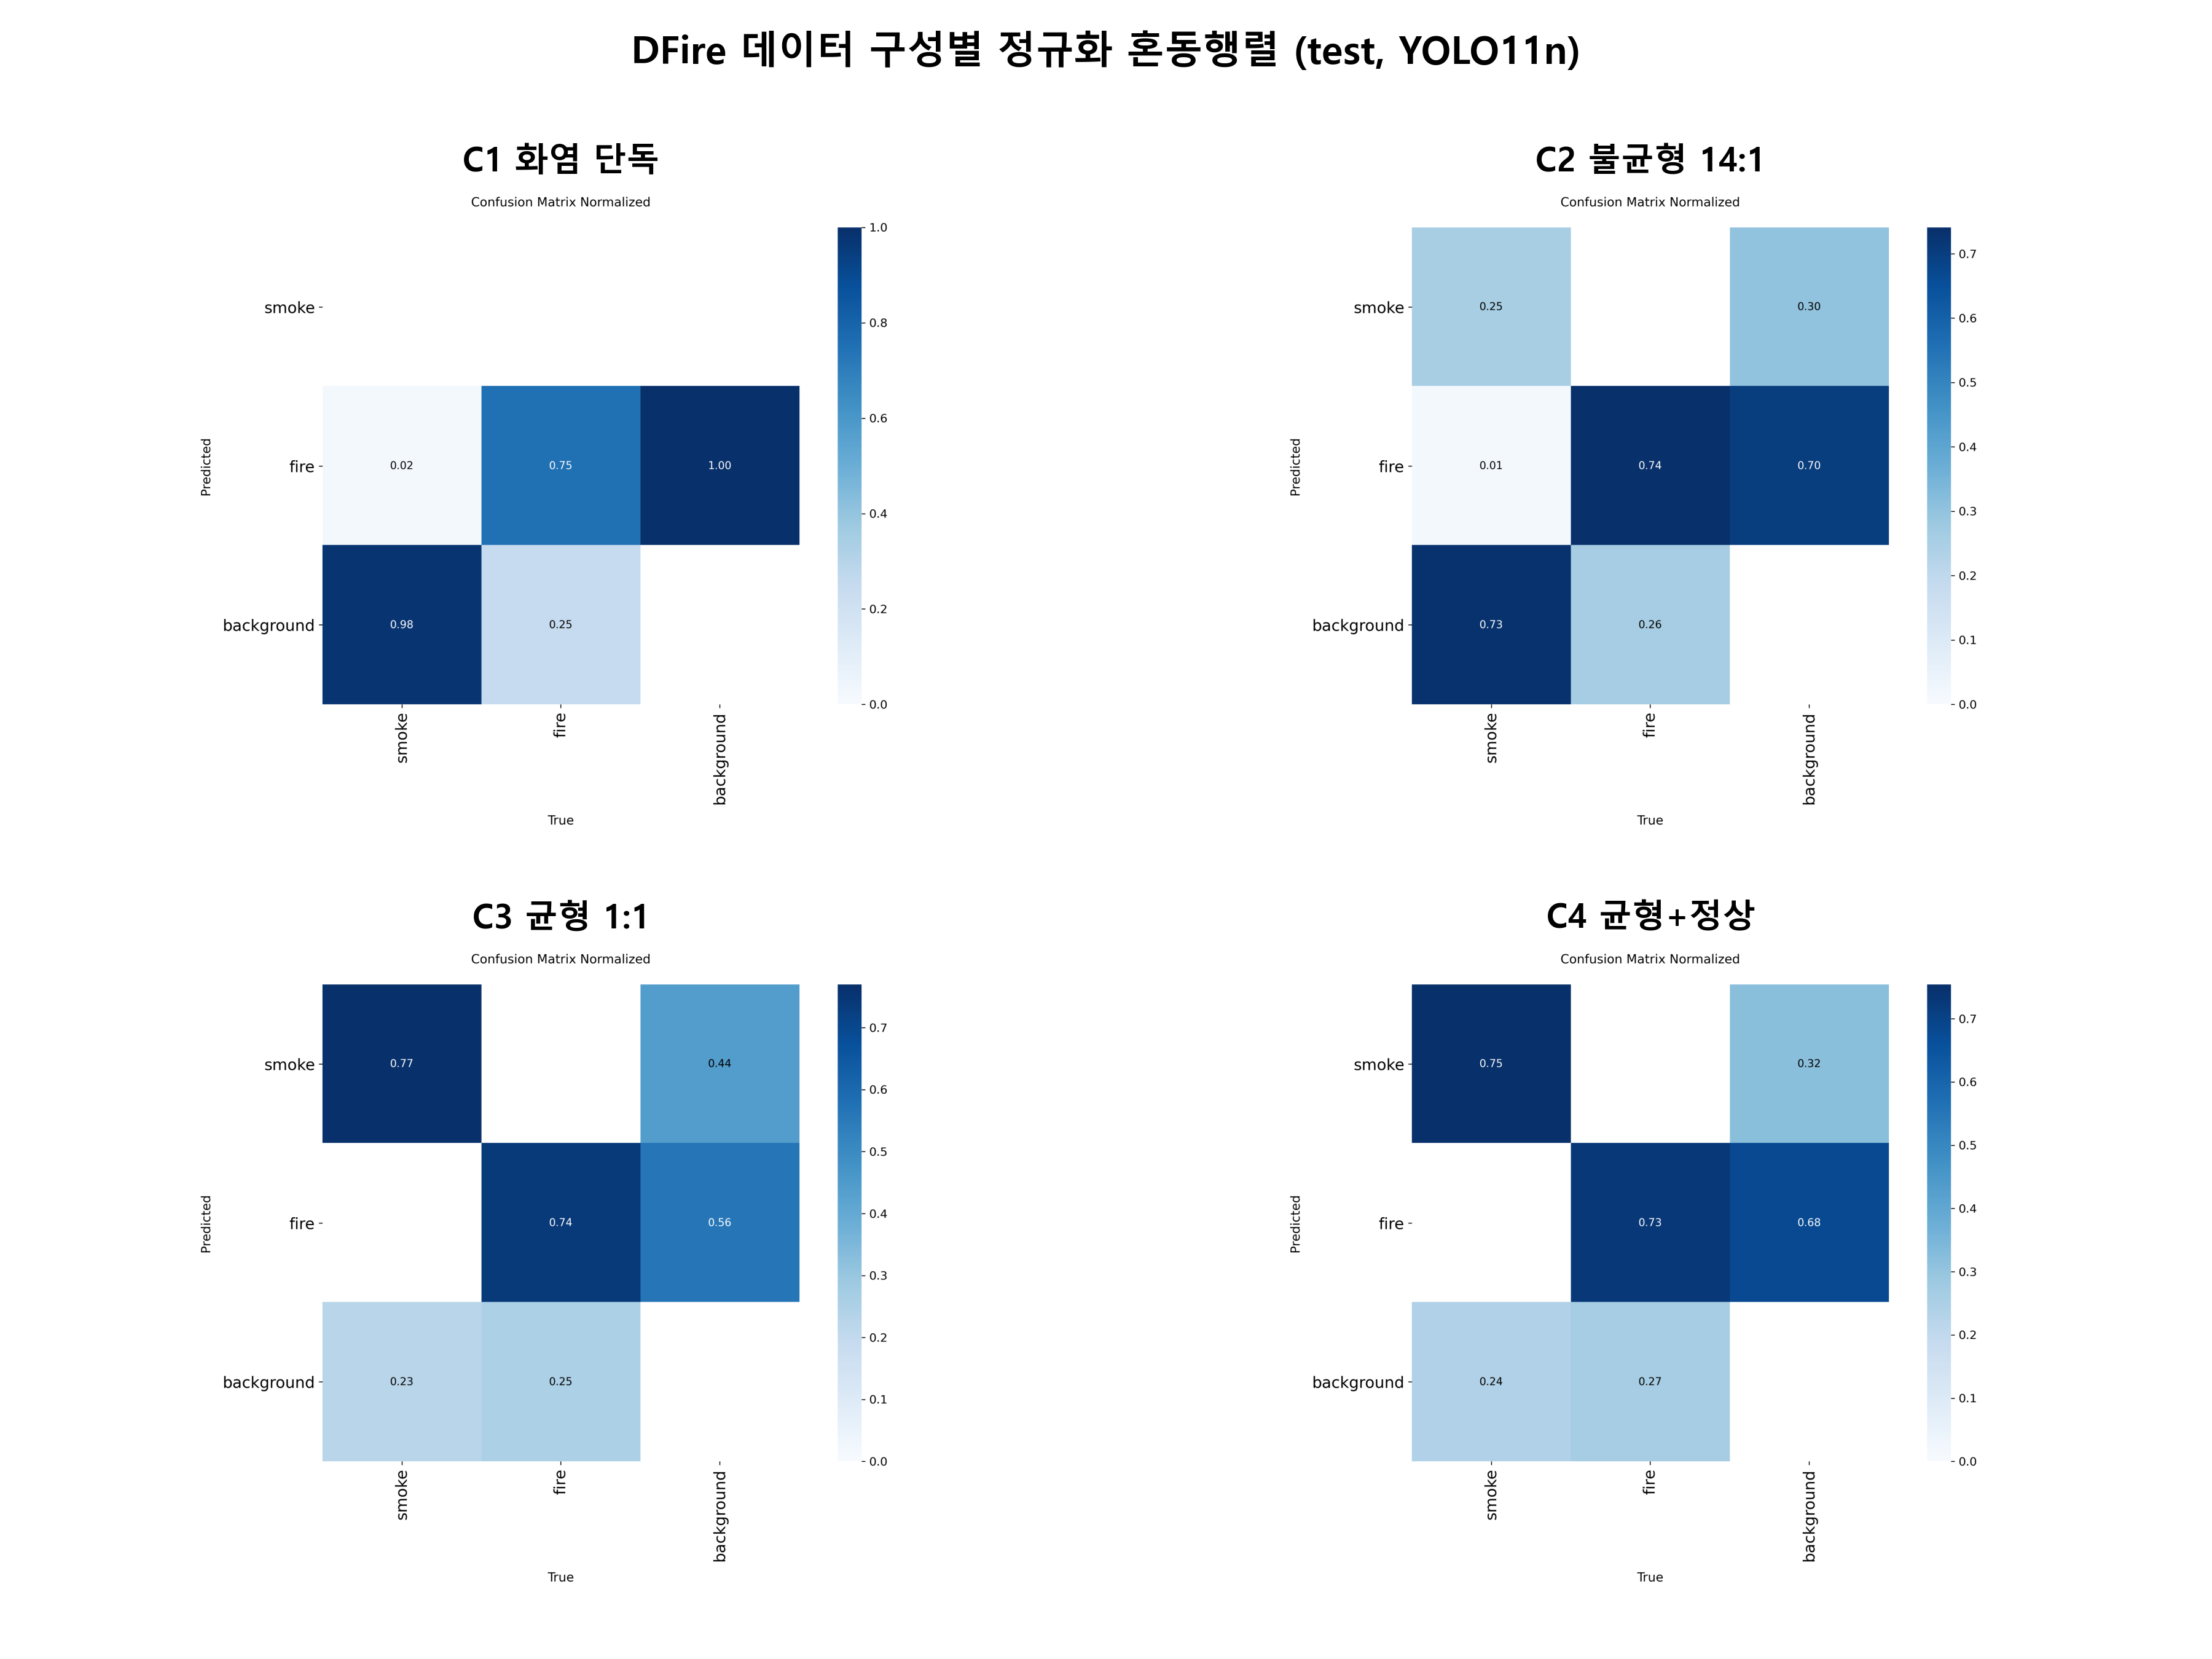
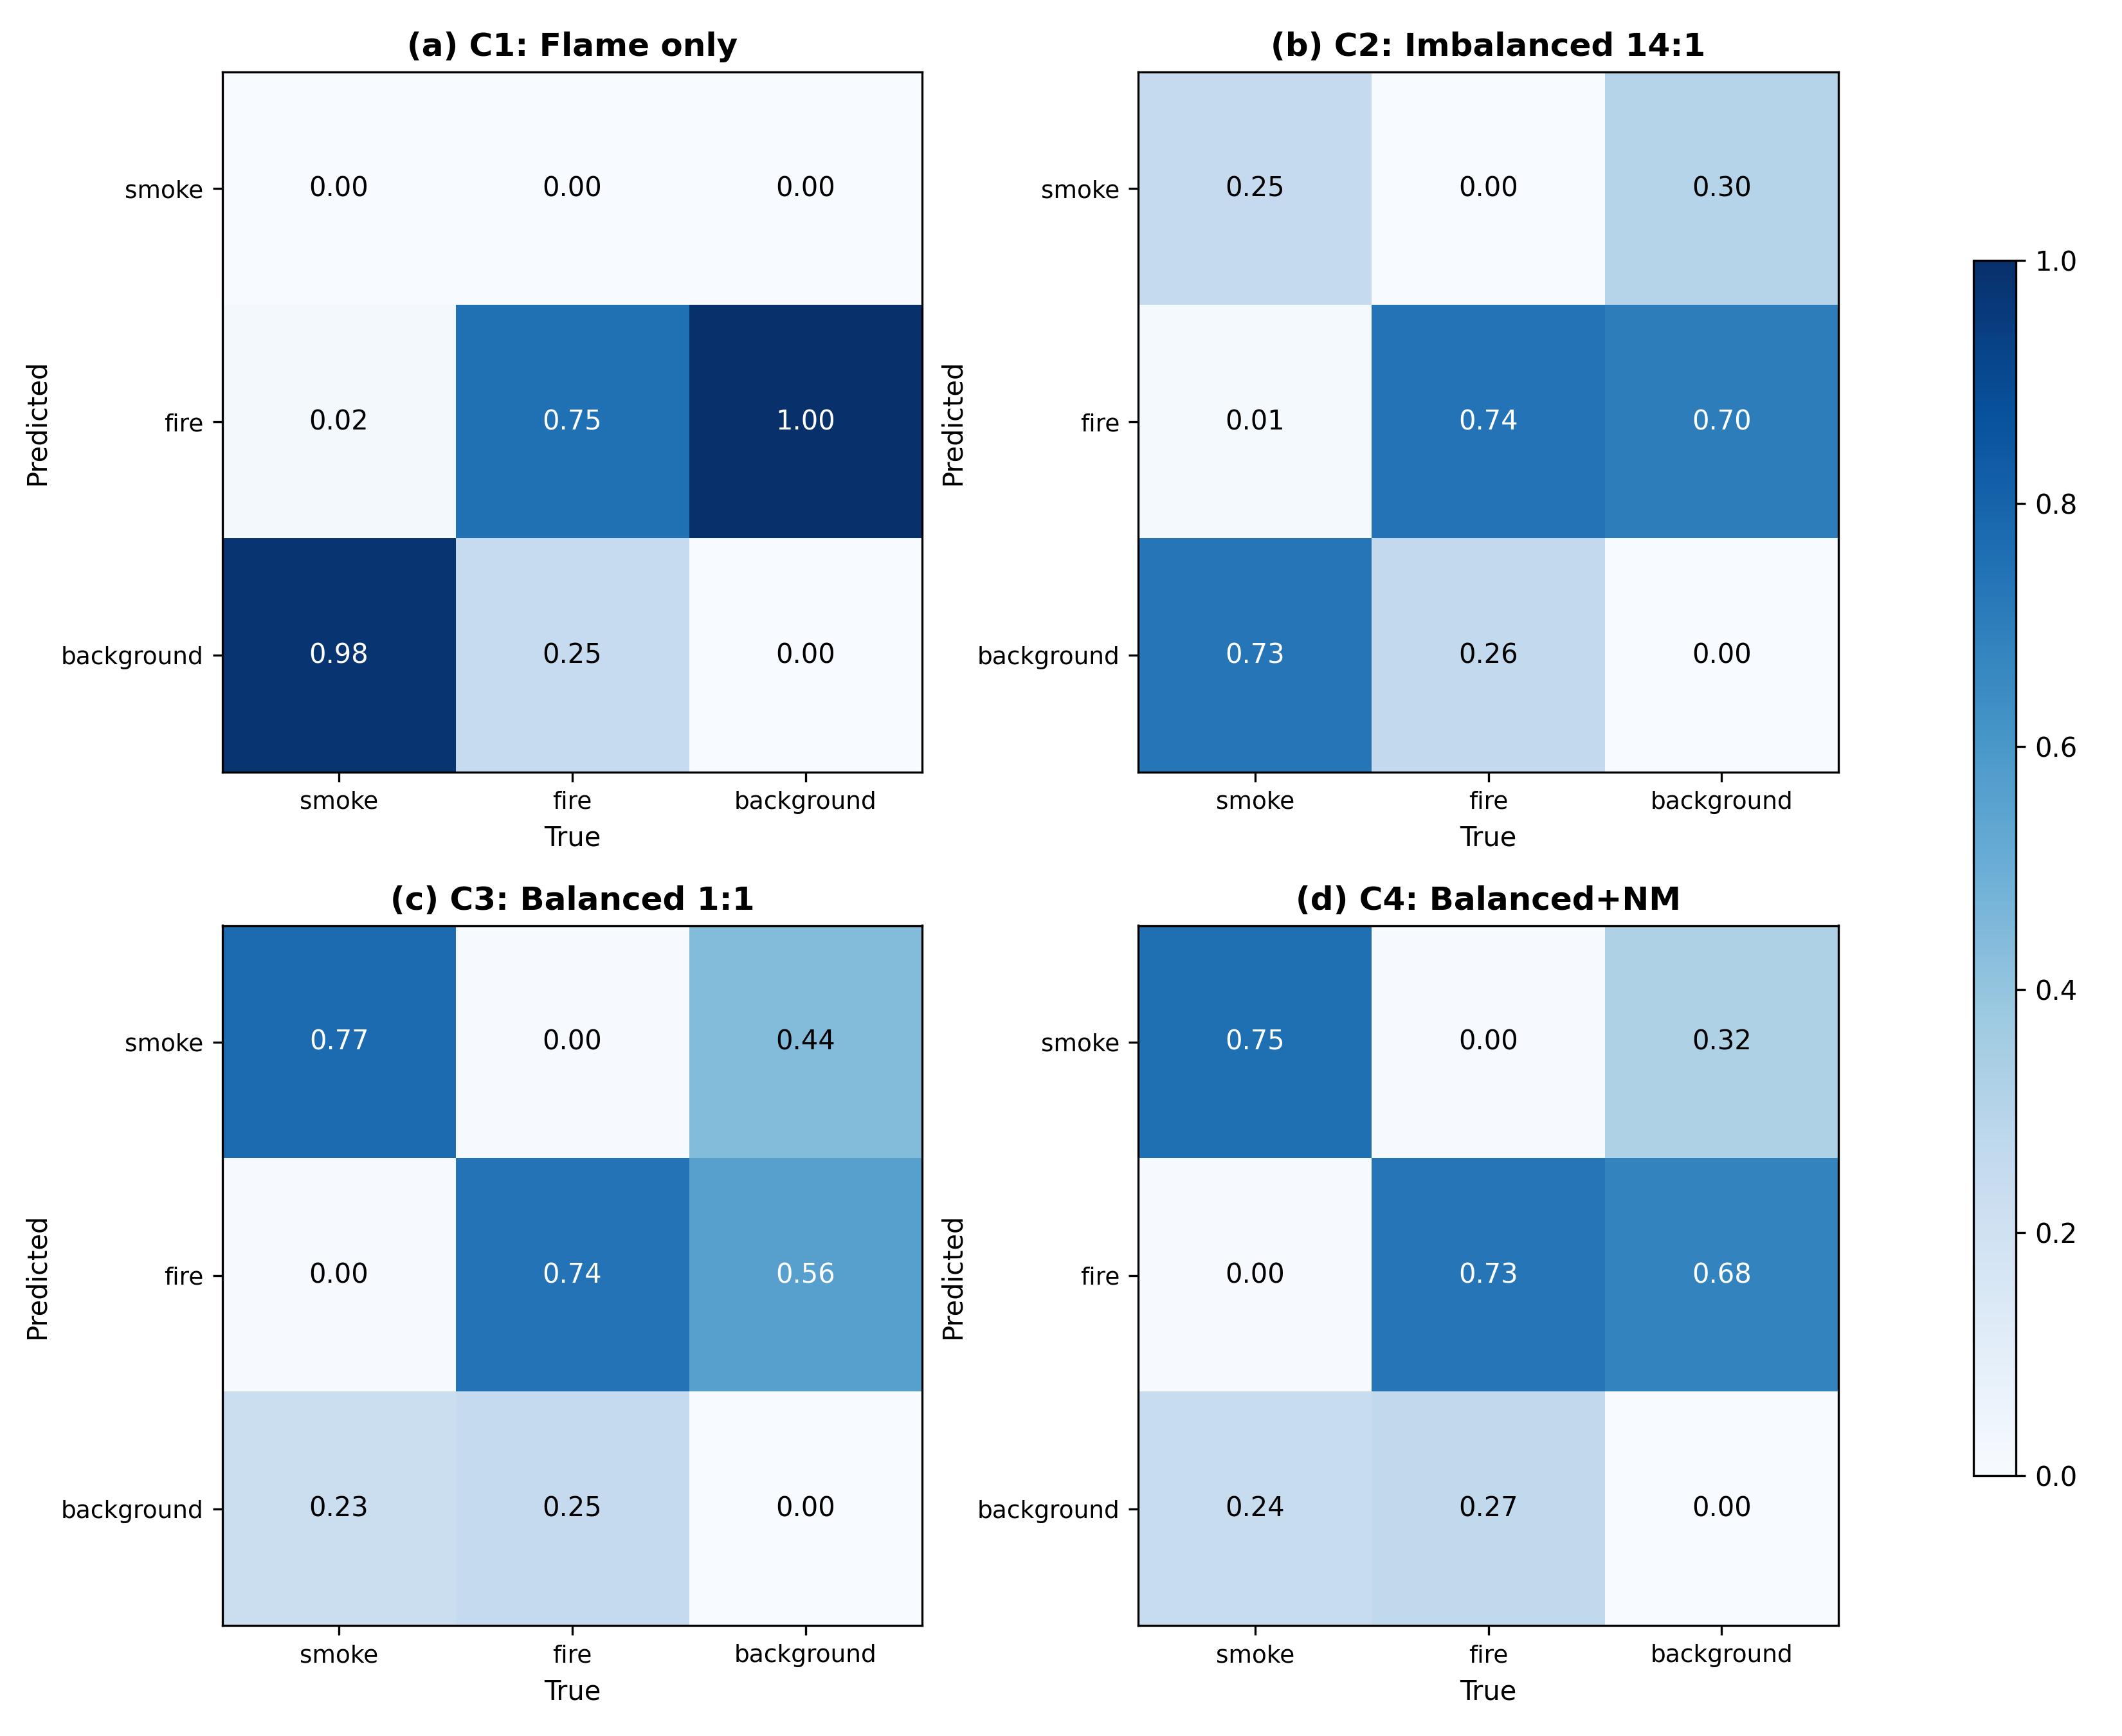
그림 ③⑤: 혼동행렬 그리드(데이터 재계산) + 정성 예시
- ③ fig_confusion_matrix_comp_dfire: best.pt로 혼동행렬 재산출(plots=True 필수), 단일 공유 컬러바, 제목 없음, 패널 (a)~(d)
- ⑤ fig_qualitative_success(화염0.83/연기0.84) + fig_qualitative_failure(정상배경 오탐/원거리 미탐), 박스+conf, 제목 없음
- 진행상황 문서: 그림 5종 모두 완료

diff --git a/03_scripts/make_qualitative.py b/03_scripts/make_qualitative.py
@@ -1,0 +1,125 @@
+"""정성 예시 그림 — C4(YOLO11n) best.pt 로 DFire test 추론, 박스+confidence 렌더.
+
+공통 스타일(총괄세션): 제목 없음, detector 출력 그대로(class fire/smoke + conf).
+출력 (04_figures/dfire_4cell/):
+  fig_qualitative_success.png — 성공 2장 (화염 탐지 + 연기 탐지)
+  fig_qualitative_failure.png — 실패/한계 1~2장 (정상배경 오탐 또는 미탐)
+"""
+from __future__ import annotations
+import os
+from pathlib import Path
+import numpy as np
+
+os.environ.setdefault("WANDB_MODE", "offline")
+import matplotlib
+matplotlib.use("Agg")
+import matplotlib.pyplot as plt
+
+BASE = Path(r"C:\YangHyunHo\DFire")
+BEST = BASE / "runs" / "E_C4" / "weights" / "best.pt"
+TEST_IMG = BASE / "dfire" / "data" / "test" / "images"
+TEST_LBL = BASE / "dfire" / "data" / "test" / "labels"
+OUT = BASE / "04_figures" / "dfire_4cell"
+
+
+def gt_classes(stem):
+    p = TEST_LBL / f"{stem}.txt"
+    if not p.exists():
+        return set()
+    return {int(l.split()[0]) for l in p.read_text().splitlines() if l.strip()}
+
+
+def categorize():
+    fire_only, smoke_only, background = [], [], []
+    for img in sorted(TEST_IMG.iterdir()):
+        if img.suffix.lower() not in {".jpg", ".jpeg", ".png"}:
+            continue
+        c = gt_classes(img.stem)
+        if not c:
+            background.append(img)
+        elif c == {1}:
+            fire_only.append(img)
+        elif c == {0}:
+            smoke_only.append(img)
+    return fire_only, smoke_only, background
+
+
+def render(model, img_path):
+    """추론 후 박스 렌더된 RGB 이미지 + 탐지 (cls,conf) 리스트 반환. 실패 시 None."""
+    try:
+        r = model(str(img_path), verbose=False)[0]
+        rgb = r.plot()[:, :, ::-1]  # BGR→RGB
+        dets = [(int(b.cls), float(b.conf)) for b in r.boxes]
+        return rgb, dets
+    except Exception as e:
+        return None
+
+
+def pick(model, imgs, want_cls, min_conf=0.5, limit=200):
+    """want_cls(0/1) 를 min_conf 이상으로 탐지한 첫 이미지."""
+    for img in imgs[:limit]:
+        out = render(model, img)
+        if out is None:
+            continue
+        rgb, dets = out
+        if any(c == want_cls and cf >= min_conf for c, cf in dets):
+            return img, rgb, dets
+    return None
+
+
+def pick_fp(model, backgrounds, limit=300):
+    """정상배경인데 박스를 친 첫 이미지(오탐/false alarm)."""
+    for img in backgrounds[:limit]:
+        out = render(model, img)
+        if out is None:
+            continue
+        rgb, dets = out
+        if dets:
+            return img, rgb, dets
+    return None
+
+
+def save_panels(items, out, ncol):
+    n = len(items)
+    fig, axes = plt.subplots(1, ncol, figsize=(6.2 * ncol, 5.0))
+    if ncol == 1:
+        axes = [axes]
+    for ax, (rgb, _) in zip(axes, items):
+        ax.imshow(rgb); ax.axis("off")
+    for ax in axes[n:]:
+        ax.axis("off")
+    fig.tight_layout()
+    fig.savefig(out, dpi=300, bbox_inches="tight"); plt.close(fig)
+    print(f"[done] {out}")
+
+
+def main():
+    from ultralytics import YOLO
+    model = YOLO(str(BEST))
+    fire_only, smoke_only, background = categorize()
+    print(f"test 카테고리: fire_only={len(fire_only)} smoke_only={len(smoke_only)} bg={len(background)}")
+
+    succ = []
+    f = pick(model, fire_only, want_cls=1, min_conf=0.55)
+    s = pick(model, smoke_only, want_cls=0, min_conf=0.55)
+    if f: print(f"성공(화염): {f[0].name} dets={f[2]}"); succ.append((f[1], f[2]))
+    if s: print(f"성공(연기): {s[0].name} dets={s[2]}"); succ.append((s[1], s[2]))
+    save_panels(succ, OUT / "fig_qualitative_success.png", ncol=2)
+
+    fails = []
+    fp = pick_fp(model, background)
+    if fp:
+        print(f"실패(정상배경 오탐): {fp[0].name} dets={fp[2]}"); fails.append((fp[1], fp[2]))
+    # 미탐(FN): GT fire 있는데 탐지 0
+    for img in fire_only[:300]:
+        out = render(model, img)
+        if out is None:
+            continue
+        rgb, dets = out
+        if not dets:
+            print(f"실패(미탐): {img.name}"); fails.append((rgb, dets)); break
+    save_panels(fails, OUT / "fig_qualitative_failure.png", ncol=max(1, len(fails)))
+
+
+if __name__ == "__main__":
+    main()

diff --git a/03_scripts/make_confusion_grid.py b/03_scripts/make_confusion_grid.py
@@ -1,38 +1,63 @@
-"""DFire C1~C4 정규화 혼동행렬을 2x2 그리드로 합쳐 논문 그림 생성 (GPU 불요).
+"""DFire C1~C4 정규화 혼동행렬 2x2 그리드 (데이터 재계산, 단일 공유 컬러바, 제목 없음).
 
-입력: 04_figures/dfire_4cell/C{1..4}_test_confusion_matrix_norm.png
+각 best.pt 로 DFire test 재평가 → confusion matrix 재산출 → 커스텀 히트맵.
+공통 스타일(총괄세션): 영문만, 개별 title 없음, 패널 소형 레이블 (a)~(d)만, 컬러바 1개 우측 공유.
 출력: 04_figures/dfire_4cell/fig_confusion_matrix_comp_dfire.png (300dpi)
 """
 from __future__ import annotations
+import os
 from pathlib import Path
+import numpy as np
+
+os.environ.setdefault("WANDB_MODE", "offline")
 import matplotlib
 matplotlib.use("Agg")
 import matplotlib.pyplot as plt
-import matplotlib.image as mpimg
 
-plt.rcParams["font.family"] = "Malgun Gothic"
-plt.rcParams["axes.unicode_minus"] = False
+BASE = Path(r"C:\YangHyunHo\DFire")
+OUT = BASE / "04_figures" / "dfire_4cell" / "fig_confusion_matrix_comp_dfire.png"
+CLASSES = ["smoke", "fire", "background"]
+# (run 이름, data yaml, 패널 레이블) — 배치: C1 좌상 / C2 우상 / C3 좌하 / C4 우하
+CELLS = [
+    ("E_C1", "compositions/c1_fire_only.yaml",   "(a) C1: Flame only"),
+    ("E_C2", "compositions/c2_imbalanced.yaml",  "(b) C2: Imbalanced 14:1"),
+    ("E_C3", "compositions/c3_balanced.yaml",    "(c) C3: Balanced 1:1"),
+    ("E_C4", "compositions/c4_balanced_nm.yaml", "(d) C4: Balanced+NM"),
+]
 
-DIR = Path(__file__).resolve().parent.parent / "04_figures" / "dfire_4cell"
-CELLS = [("C1", "C1 화염 단독"), ("C2", "C2 불균형 14:1"),
-         ("C3", "C3 균형 1:1"), ("C4", "C4 균형+정상")]
+
+def confusion(run, data):
+    from ultralytics import YOLO
+    model = YOLO(str(BASE / "runs" / run / "weights" / "best.pt"))
+    # plots=True 여야 confusion matrix 가 누적·반환됨 (plots=False면 빈 행렬)
+    res = model.val(data=str(BASE / data), split="test", device="0",
+                    verbose=False, plots=True)
+    m = np.array(res.confusion_matrix.matrix, dtype=float)   # (3,3): 행=pred, 열=true
+    assert m.sum() > 0, f"{run}: 빈 confusion matrix (접근경로 점검 필요)"
+    col = m.sum(0, keepdims=True); col[col == 0] = 1
+    return m / col                                            # 열(true) 기준 정규화
 
 
 def main():
-    fig, axes = plt.subplots(2, 2, figsize=(12, 9))
-    for ax, (cell, title) in zip(axes.flat, CELLS):
-        p = DIR / f"{cell}_test_confusion_matrix_norm.png"
-        if not p.exists():
-            ax.text(0.5, 0.5, f"{cell}\n(없음)", ha="center", va="center")
-            ax.axis("off"); continue
-        ax.imshow(mpimg.imread(p)); ax.axis("off")
-        ax.set_title(title, fontsize=13, fontweight="bold")
-    fig.suptitle("DFire 데이터 구성별 정규화 혼동행렬 (test, YOLO11n)",
-                 fontsize=15, fontweight="bold")
-    fig.tight_layout(rect=(0, 0, 1, 0.97))
-    out = DIR / "fig_confusion_matrix_comp_dfire.png"
-    fig.savefig(out, dpi=300); plt.close(fig)
-    print(f"[done] {out}")
+    mats = [(confusion(r, d), lab) for r, d, lab in CELLS]
+    fig, axes = plt.subplots(2, 2, figsize=(11, 9))
+    im = None
+    for ax, (mat, lab) in zip(axes.flat, mats):
+        im = ax.imshow(mat, cmap="Blues", vmin=0, vmax=1)
+        ax.set_title(lab, fontsize=12, fontweight="bold")
+        ax.set_xticks(range(3)); ax.set_yticks(range(3))
+        ax.set_xticklabels(CLASSES, fontsize=9); ax.set_yticklabels(CLASSES, fontsize=9)
+        ax.set_xlabel("True", fontsize=10); ax.set_ylabel("Predicted", fontsize=10)
+        for i in range(3):
+            for j in range(3):
+                v = mat[i, j]
+                ax.text(j, i, f"{v:.2f}", ha="center", va="center", fontsize=10,
+                        color="white" if v > 0.5 else "black")
+    fig.tight_layout(rect=(0, 0, 0.91, 1))
+    cax = fig.add_axes((0.93, 0.15, 0.02, 0.7))
+    fig.colorbar(im, cax=cax)
+    fig.savefig(OUT, dpi=300); plt.close(fig)
+    print(f"[done] {OUT}")
 
 
 if __name__ == "__main__":

diff --git a/00_분석세션_진행상황.md b/00_분석세션_진행상황.md
@@ -7,9 +7,7 @@
 ---
 
 ## 🔄 현재 실행 중 / 대기
-| 작업 | 상태 |
-|------|------|
-| 그림 ③(혼동행렬 그리드 재생성)·⑤(정성 예시) | GPU 확보됨 → 생성 예정 |
+- 없음. 총괄세션 그림 요청 5종(①②③④⑤) 모두 완료·push.
 
 ## ✅ 완료된 실험
 

diff --git a/04_figures/dfire_4cell/README.md b/04_figures/dfire_4cell/README.md
@@ -17,8 +17,10 @@
 - `fig_model_dfire.png` — 모델 용량 mAP@0.5 (C4: 11n vs 11s, +1.3%p), 300dpi
 - `fig_smoke_ap_trend_dfire.png` — 구성별 test smoke AP 막대 (0.000/0.237/0.698/0.765), 300dpi
 - `C{1..4}_test_confusion_matrix_norm.png` — 셀별 정규화 혼동행렬 (test)
-- `fig_confusion_matrix_comp_dfire.png` — C1~C4 정규화 혼동행렬 **2×2 그리드** (그림 3, 300dpi, `make_confusion_grid.py`)
+- `fig_confusion_matrix_comp_dfire.png` — C1~C4 정규화 혼동행렬 **2×2 그리드** (단일 컬러바, 데이터 재계산, `make_confusion_grid.py`)
 - `C4_test_PR_curve.png` — C4 PR 곡선 (fire/smoke 클래스별)
+- `fig_qualitative_success.png` — C4 정성 성공례 (화염 0.83 + 연기 0.84), `make_qualitative.py`
+- `fig_qualitative_failure.png` — C4 정성 한계례 (정상배경 오탐 + 원거리 화염 미탐)
 - 생성: `03_scripts/plot_dfire_ablation.py` (수치 기반, GPU 불요)
 
 ## 파일